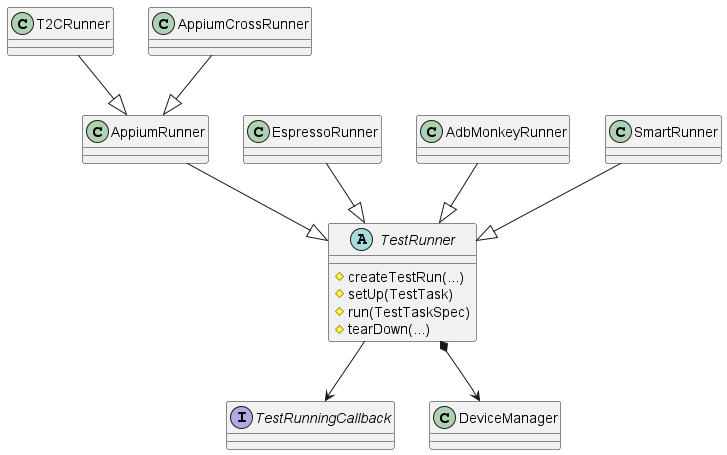
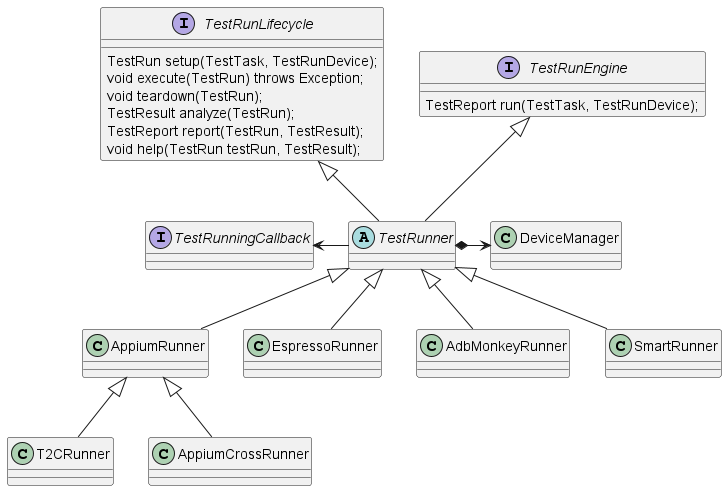
update class name and UML

diff --git a/agent/src/main/java/com/microsoft/hydralab/agent/runner/TestRunLifecycle.java b/agent/src/main/java/com/microsoft/hydralab/agent/runner/TestRunLifecycle.java
@@ -1,18 +1,18 @@
 package com.microsoft.hydralab.agent.runner;
 
-import com.microsoft.hydralab.common.entity.common.DeviceInfo;
 import com.microsoft.hydralab.common.entity.common.TestReport;
 import com.microsoft.hydralab.common.entity.common.TestResult;
 import com.microsoft.hydralab.common.entity.common.TestRun;
+import com.microsoft.hydralab.common.entity.common.TestRunDevice;
 import com.microsoft.hydralab.common.entity.common.TestTask;
 
 /**
- * We use this interface to define the test runner behaviors and test life cycle.
+ * We use this interface to define the test runner behaviors and test run lifecycle.
  * And in the book of "How we test software at Microsoft", it proposed an approach of "SEARCH"
  * to define each stage of testing. We take this approach as the basis of our test runner.
  * Yet we have our own implementation and name for each stage.
  */
-public interface TestLifecycle {
+public interface TestRunLifecycle {
     /**
      * The scope of preparing a system for test execution, including operating system installation (if
      * necessary) and configuring the application under test, can grow quickly when you consider operating
@@ -21,7 +21,7 @@ public interface TestLifecycle {
      * @param testTask
      * @return the test run, which contains the test task and the device info
      */
-    TestRun setup(TestTask testTask, DeviceInfo deviceInfo);
+    TestRun setup(TestTask testTask, TestRunDevice testRunDevice);
 
     /**
      * Running the steps of the test case is the heart of automated testing, and a variety of execution methods

diff --git a/agent/src/main/java/com/microsoft/hydralab/agent/runner/TestRunEngine.java b/agent/src/main/java/com/microsoft/hydralab/agent/runner/TestRunEngine.java
@@ -1,0 +1,18 @@
+package com.microsoft.hydralab.agent.runner;
+
+import com.microsoft.hydralab.common.entity.common.TestReport;
+import com.microsoft.hydralab.common.entity.common.TestRunDevice;
+import com.microsoft.hydralab.common.entity.common.TestTask;
+
+/**
+ * We use this interface to define the test runner exposed behavior and I/O.
+ */
+public interface TestRunEngine {
+    /**
+     * Start the test run by calling the lifecycle {@link TestRunLifecycle}.
+     *
+     * @param testTask   the test task to run
+     * @param testRunDevice the device to run the test task
+     */
+    TestReport run(TestTask testTask, TestRunDevice testRunDevice);
+}

diff --git a/agent/src/main/java/com/microsoft/hydralab/agent/runner/TestRunnerManager.java b/agent/src/main/java/com/microsoft/hydralab/agent/runner/TestRunnerManager.java
@@ -1,0 +1,7 @@
+package com.microsoft.hydralab.agent.runner;
+
+/**
+ * We use this manager as the TestRunner factory and this manages all the dependencies of the TestRunner.
+ */
+public class TestRunnerManager {
+}
